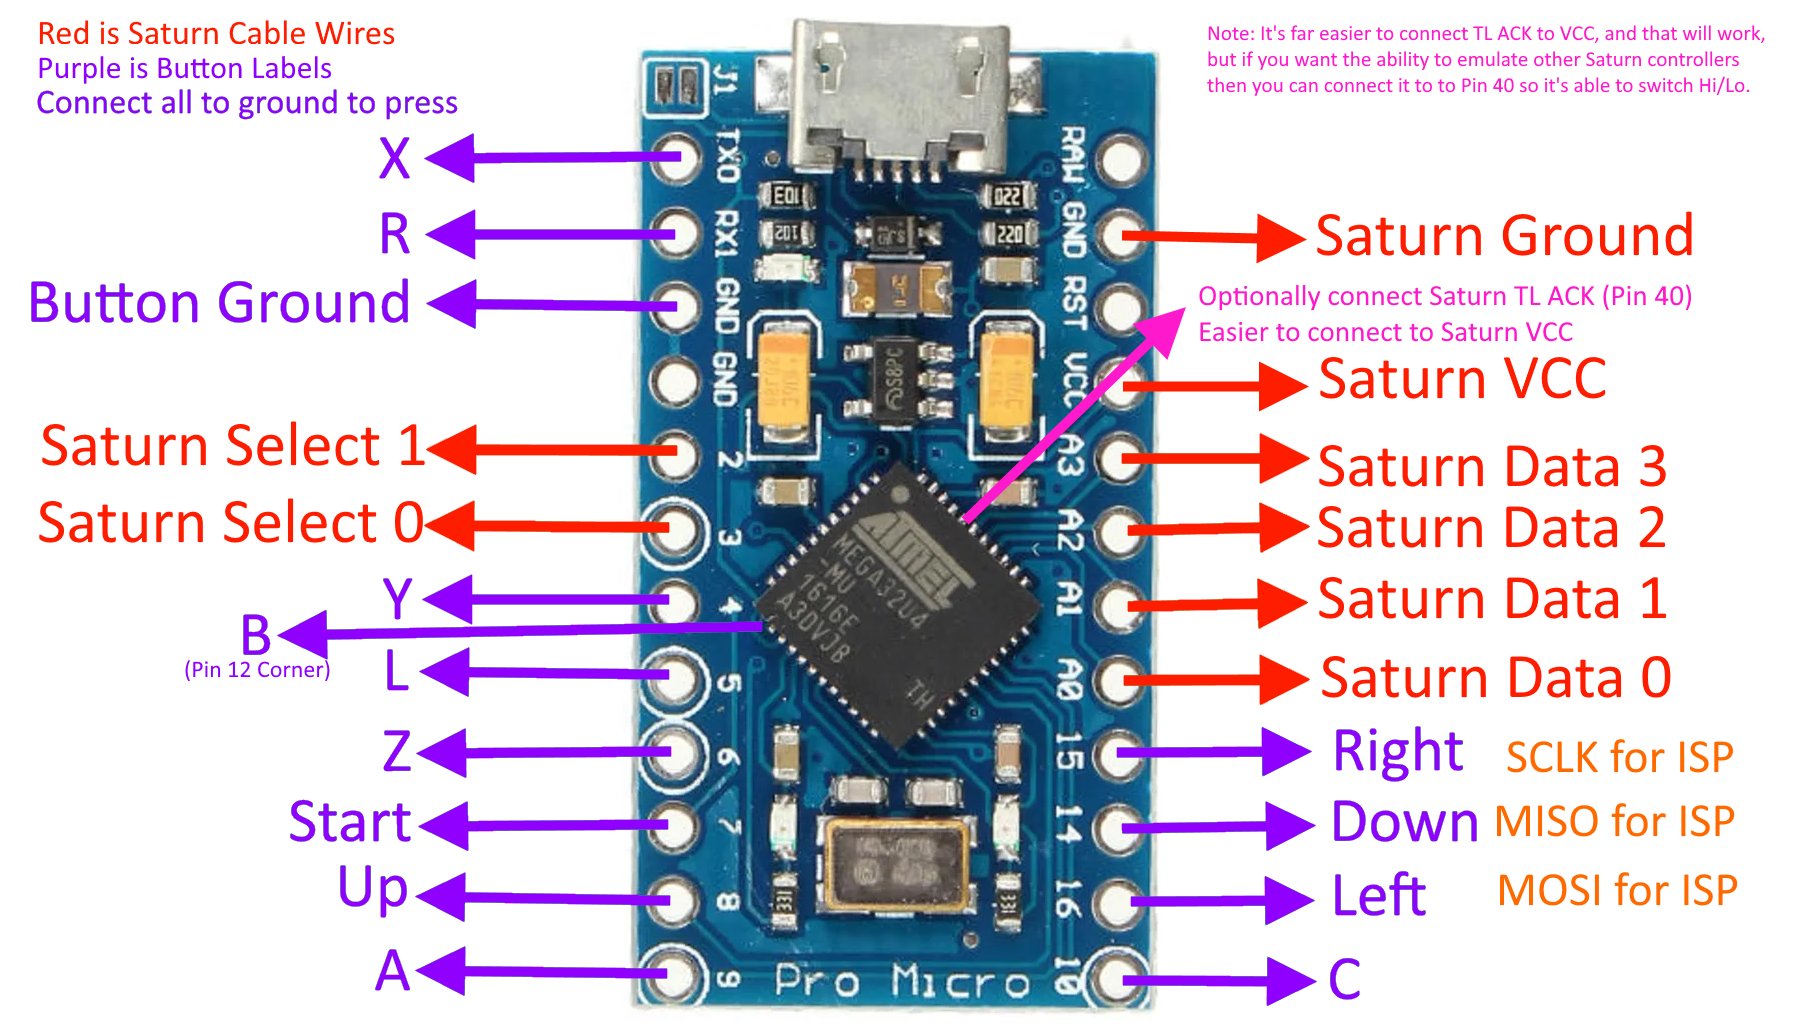
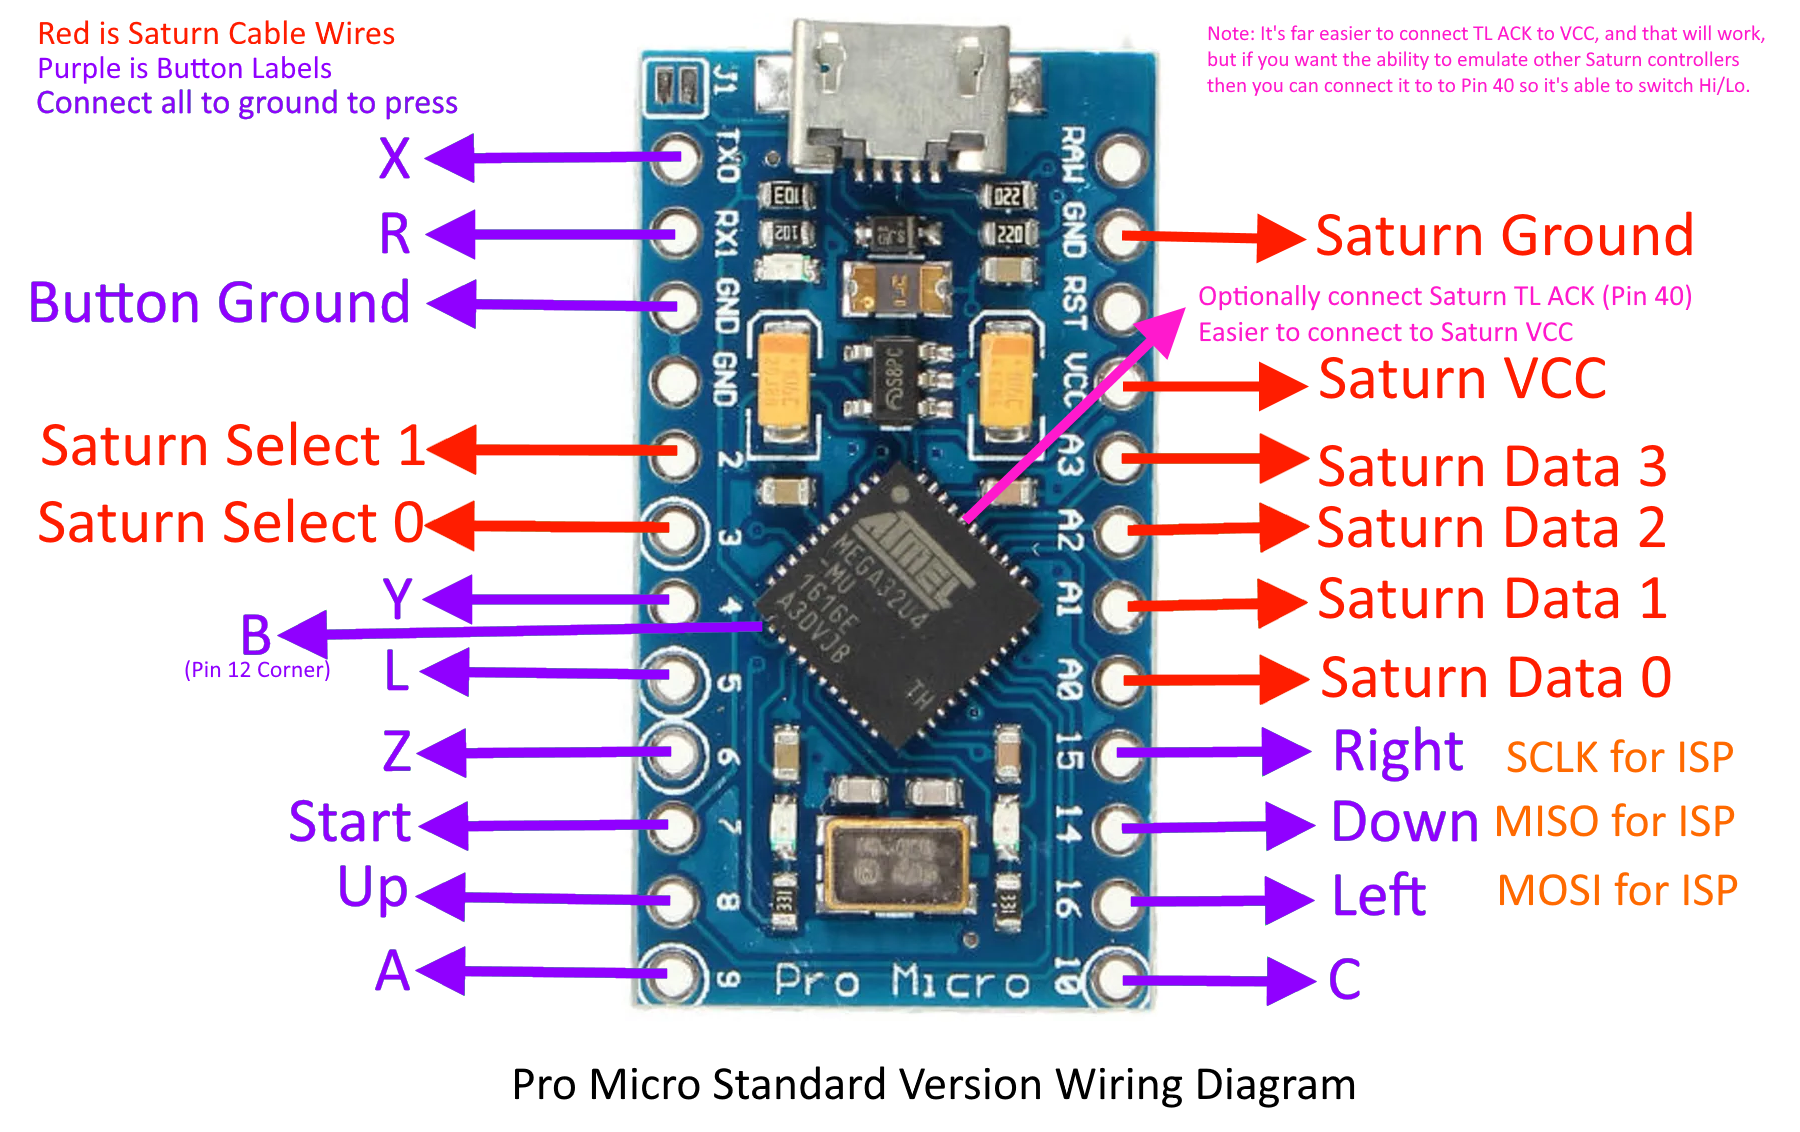
Update wiring diagrams with names, and add Teensy

diff --git a/README.md b/README.md
@@ -14,9 +14,13 @@ If using Microchip Studio (Formerly Atmel Studio), then load the MicrochipStudio
 
 If you already have Arduino IDE, you can use the compile_asm.bat / compile_asm.sh to compile the Arduino-Saturn-Controller.asm code and then flash that output.
 
+## Teensy 2.0
+After developing this, I discovered the Teensy 2.0 uses the same ATmega32U4 chip as the Pro Micro. It also exposes all of the required pins without directly soldering onto the chip, and is available in a smaller size than the others. It's a little bit more expensive, but it would be easier for beginners to use. It's completely untested, but I've included a wiring diagram for it below. It will also get programmed through ISP the same as above. I won't build a guide for this, but it shouldn't be difficult with some research.
+
 ## Wiring Diagrams
 ![DiagramMicro](wiring-diagram-Micro-USB.png)
 ![DiagramMini](wiring-diagram-Mini-USB.png)
+![DiagramTeensy](wiring-diagram-teensy.png)
 
 
 | Controller | PORT | Pro Micro         |
